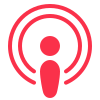
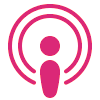
:construction: Section Hero ok

diff --git a/src/components/Hero.vue b/src/components/Hero.vue
@@ -1,0 +1,25 @@
+<template>
+     <section class="relative">
+        <div class="container flex flex-col-reverse lg:flex-row items-center pag-12 mt-14 lg:mt-28">
+            <div class="flex flex-1 flex-col items-center lg:items-start">
+                <h2 class="text-white text-3xl md:text-4 leg:text-5xl text-center lg:text-left mb-6">The ultime USB microphone</h2>
+                <p class="text-bookmark-grey text-lg text-center lg:text-left mb-6">Create incomparable recordings with your computer. Yeti microphones produce pristine, studio-quality recordings with legendary ease.</p>
+                <div class="flex justify-center felx-wrap gap-6">
+                    <button type="button" class="btn btn-purple hover:bg-bookmark-white hover:text-black">Discover</button>
+                </div>
+            </div>
+            <div class="flex justify-center flex-1 mb-10 md:mb-16 lg:mb-0 z-10">
+                <img src="../assets/images/chris-yang-Z_7wVf_JgS0-unsplash.jpeg" alt="micro illustration" class="w-3/4 h-3/4 sm:w-3/4 sm:h-3/4 md:w-3/5 md:h-3/5 rounded-lg">
+            </div>
+            <div class="hidden md:block overflow-hidden bg-bookmark-purple rounded-l-full absolute h-80 w-2/4 top-32 right-0"></div>
+
+        </div>
+    </section>
+</template>
+
+<script>
+    export default {
+        
+    }
+</script>
+

diff --git a/src/components/Navigation.vue b/src/components/Navigation.vue
@@ -1,7 +1,7 @@
 <template>
    <nav class="container flex items-center py-4 mt-4 sm:mt-12">
     
-    <div class="py-1"><img src="../assets/images/podcast.png" width="50" alt="podcast logo"></div>
+    <div class="py-1"><img src="../assets/images/podcast.png" width="60" alt="podcast logo"></div>
       <ul class="hidden sm:flex flex-1 justify-end items-center gap-12 text-bookmark-blue uppercase text-xs">
         <li class="cursor-pointer text-white">Features</li>
         <li class="cursor-pointer text-white">Pricing</li>
@@ -17,6 +17,3 @@
 
 </script>
 
-<style scoped>
-
-</style>

diff --git a/tailwind.config.js b/tailwind.config.js
@@ -5,11 +5,11 @@ module.exports = {
     extend: {
       colors: {
         "bookmark-purple": "#5267DF",
-        "bookmark-red": "#FA5959",
+        "bookmark-red": "#DB2877",
         "bookmark-blue": "#241A45",
         "bookmark-grey": "#9194A2",
         "bookmark-white": "#F7F7F7",
-        "bookmark-dark": "02080C",
+        "bookmark-dark": "#02080C",
       }
     },
     fontFamily: {

diff --git a/src/index.css b/src/index.css
@@ -1,3 +1,17 @@
 @tailwind base;
 @tailwind components;
 @tailwind utilities;
+
+@import url('https://fonts.googleapis.com/css2?family=Poppins:wght@100;200;300;400;500;600;700&display=swap');
+
+.btn {
+    @apply shadow-md py-3 px-6 rounded-md transition duration-300;
+}
+
+.btn-purple {
+    @apply bg-bookmark-purple text-white;
+}
+
+.btn-white {
+    @apply bg-bookmark-white;
+}

diff --git a/src/App.vue b/src/App.vue
@@ -1,16 +1,18 @@
 <template>
   <Navigation />
+  <Hero />
   
 </template>
 
 <script setup>
-import Navigation from './components/Navigation.vue'
+import Navigation from './components/Navigation.vue';
+import Hero from './components/Hero.vue';
 
 
 </script>
 
 <style>
 body {
-  background-color: #02080C;
+  background-color: #040b12;
 }
 </style>
